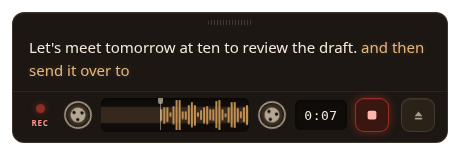
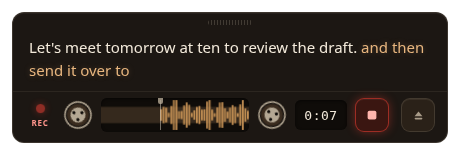
fix(overlay): glide the tape smoothly instead of ticking per column
Two sources of jerk in the tape scroll: column positions were rounded to
integer pixels, quantizing the sub-column scroll offset into visible
~1px ticks, and the head only emitted a written column every 80ms, so
signal appeared in pops. Columns now ride at float coordinates (the
canvas anti-aliases the edges, which reads as analog softness at this
scale), and a live column extrudes continuously from the record head at
the current eased level, freezing into history on the next commit.
Under prefers-reduced-motion the offset stays 0 and the tape still
steps discretely, as intended.

Changed region(s): [[0.3348, 0.6452, 0.5478, 0.8516]]

diff --git a/renderer/overlay.js b/renderer/overlay.js
@@ -249,16 +249,29 @@ function drawMeter(frac = 0) {
   meterCtx.fillRect(0, bandY, w, px);
   meterCtx.fillRect(0, bandY + bandH - px, w, px);
   // The written signal: mirrored oxide columns, newest at the head. Peaks may
-  // overshoot the ribbon — a hot signal rides over the band's edges.
-  const colW = Math.max(2, Math.round(TAPE_COL_PX * dpr));
+  // overshoot the ribbon — a hot signal rides over the band's edges. Columns
+  // ride at FLOAT coordinates: sub-pixel positions are what make the tape
+  // glide instead of ticking pixel by pixel (the canvas anti-aliases the
+  // edges, which at this scale reads as analog softness, not blur).
+  const colW = TAPE_COL_PX * dpr;
+  const gapW = colW * 0.28;
   const headX = Math.round(w * TAPE_HEAD_X);
   const maxAmp = h - 4 * px;
   meterCtx.fillStyle = "rgba(210, 154, 90, 0.9)";
   for (let i = 0; i < tapeHistory.length; i++) {
-    const x = headX + Math.round((i + frac) * colW);
+    const x = headX + (i + frac) * colW;
     if (x > w) break;
     const amp = Math.max(2 * px, Math.min(1, tapeHistory[i] * 6) * maxAmp);
-    meterCtx.fillRect(x, Math.round((h - amp) / 2), colW - px, amp);
+    meterCtx.fillRect(x, (h - amp) / 2, colW - gapW, amp);
+  }
+  // The column being written right now: it extrudes from the head at the live
+  // level and freezes into tapeHistory on the next commit, so signal flows
+  // out of the head continuously instead of appearing in 80ms pops. (Under
+  // reduced motion frac stays 0 and the tape steps, as intended.)
+  if (recording?.startedAt && frac > 0) {
+    const live = displayLevels[displayLevels.length - 1];
+    const amp = Math.max(2 * px, Math.min(1, live * 6) * maxAmp);
+    meterCtx.fillRect(headX, (h - amp) / 2, Math.max(0, frac * colW - gapW), amp);
   }
 }
 
